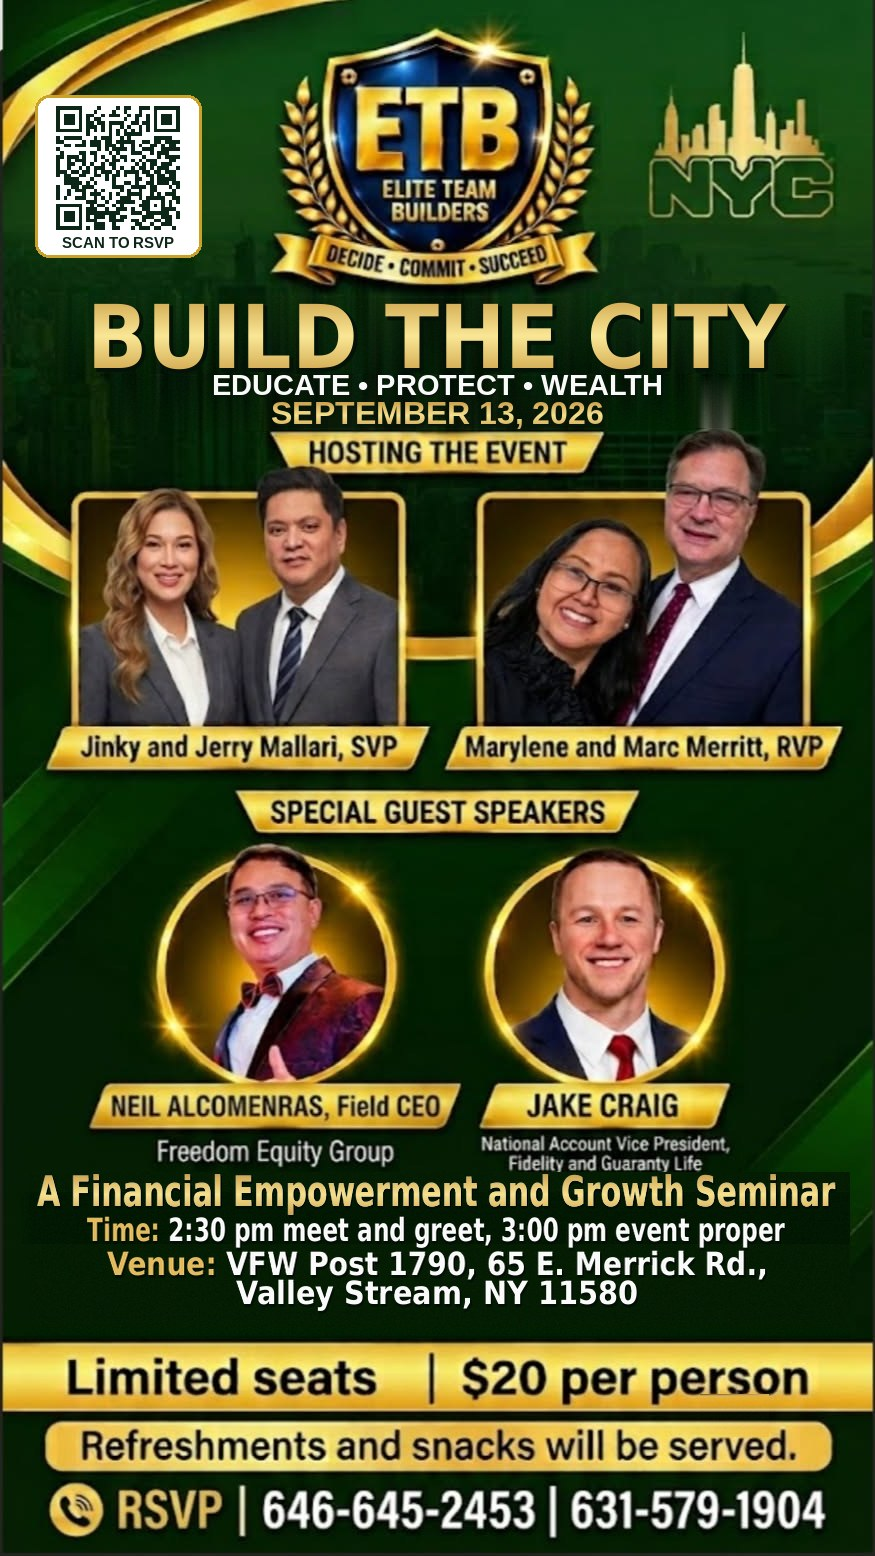
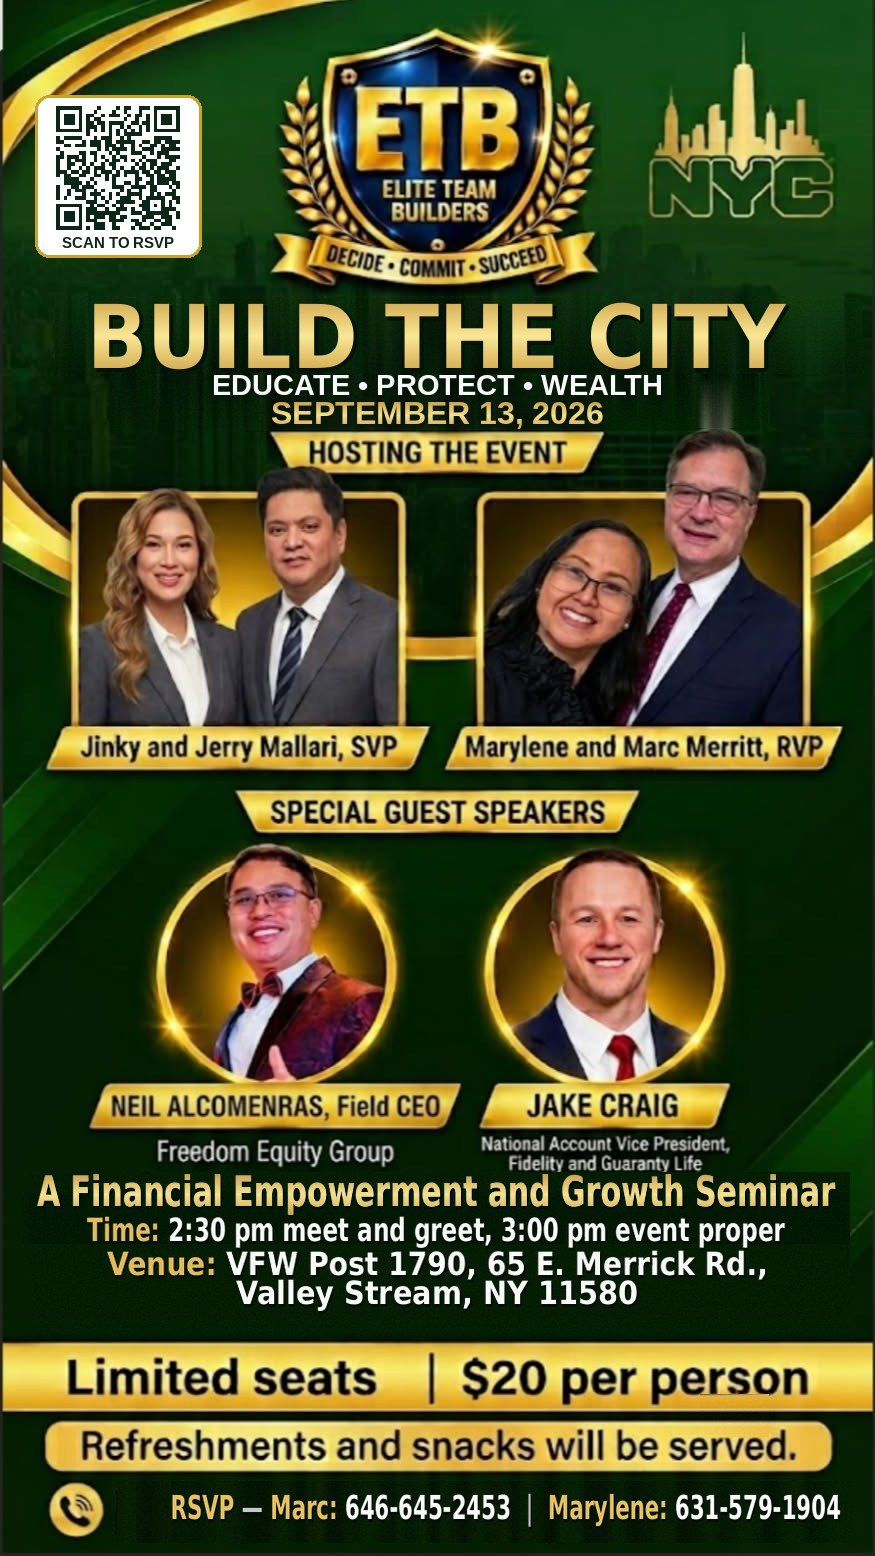
Name labels on RSVP row; add text and email RSVP buttons

Changed region(s): [[0.1234, 0.9563, 0.9566, 0.9871]]

diff --git a/index.html b/index.html
@@ -19,20 +19,28 @@ body{background:#0E2A1B;display:flex;flex-direction:column;align-items:center}
 .hot{position:absolute;display:block;text-indent:-9999px}
 .hot:focus-visible{outline:3px solid #C9A227;outline-offset:2px}
 /* bottom RSVP row */
-.tel-marc    {left:8.0%;  top:95.0%; width:55.0%; height:4.2%}
-.tel-marylene{left:63.5%; top:95.0%; width:31.8%; height:4.2%}
+.tel-marc    {left:9.8%;  top:95.2%; width:48.5%; height:4.0%}
+.tel-marylene{left:62.2%; top:95.2%; width:34.4%; height:4.0%}
 /* venue block */
 .venue       {left:21.5%; top:80.0%; width:71.0%; height:5.6%}
-.tapnote{margin:12px 0 20px;text-align:center;font:700 17px/1.3 Arial,Helvetica,sans-serif;color:#E6C46A;letter-spacing:.5px}
+.rsvp-actions{display:flex;flex-wrap:wrap;gap:10px;justify-content:center;margin:0 12px 26px;max-width:900px}
+.btn{display:inline-block;padding:11px 18px;border:2px solid #C9A227;border-radius:26px;color:#F3DFA0;font:700 15px/1 Arial,Helvetica,sans-serif;text-decoration:none;background:rgba(201,162,39,.14);letter-spacing:.3px}
+.tapnote{margin:12px 0 14px;text-align:center;font:700 17px/1.3 Arial,Helvetica,sans-serif;color:#E6C46A;letter-spacing:.5px}
 </style>
 </head>
 <body>
 <main class="wrap">
   <img src="ETB-NYC-Flyer.jpg" alt="ETB Elite Team Builders — Build The City — Educate, Protect, Wealth. Hosted by Jinky and Jerry Mallari, SVP, and Marylene and Marc Merritt, RVP. Special guest speakers Neil Alcomenras, Field CEO, Freedom Equity Group, and Jake Craig, National Account Vice President, Fidelity and Guaranty Life. A Financial Empowerment and Growth Seminar. September 13, 2026. 2:30 PM meet and greet, 3:00 PM event proper. Venue: VFW Post 1790, 65 E. Merrick Rd., Valley Stream, NY 11580. Limited seats, $20 per person. Refreshments and snacks will be served. RSVP 646-645-2453 or 631-579-1904.">
-  <a class="hot tel-marc" href="tel:+16466452453">Call 646-645-2453 to RSVP</a>
-  <a class="hot tel-marylene" href="tel:+16315791904">Call 631-579-1904 to RSVP</a>
+  <a class="hot tel-marc" href="tel:+16466452453">Call Marc at 646-645-2453 to RSVP</a>
+  <a class="hot tel-marylene" href="tel:+16315791904">Call Marylene at 631-579-1904 to RSVP</a>
   <a class="hot venue" href="https://maps.google.com/?q=VFW+Post+1790,+65+E+Merrick+Rd,+Valley+Stream,+NY+11580" target="_blank" rel="noopener">Directions to VFW Post 1790, 65 E. Merrick Rd., Valley Stream, NY 11580</a>
 </main>
-<p class="tapnote">Tap a Phone Number to Connect</p>
+<p class="tapnote">Tap a Phone Number to Connect — or RSVP below:</p>
+<div class="rsvp-actions">
+  <a class="btn" href="sms:+16466452453?&body=RSVP%20%E2%80%94%20Build%20The%20City%2C%20Sept%2013.%20Name%3A%20...%20Guests%3A%20...">💬 Text Marc</a>
+  <a class="btn" href="sms:+16315791904?&body=RSVP%20%E2%80%94%20Build%20The%20City%2C%20Sept%2013.%20Name%3A%20...%20Guests%3A%20...">💬 Text Marylene</a>
+  <a class="btn" href="mailto:marc@mmtfininsurance.com?subject=RSVP%20%E2%80%94%20Build%20The%20City%2C%20September%2013&body=Name%3A%0ANumber%20of%20guests%3A%0APhone%3A%0A">✉ Email Marc</a>
+  <a class="btn" href="mailto:marylene@mmtfininsurance.com?subject=RSVP%20%E2%80%94%20Build%20The%20City%2C%20September%2013&body=Name%3A%0ANumber%20of%20guests%3A%0APhone%3A%0A">✉ Email Marylene</a>
+</div>
 </body>
 </html>
